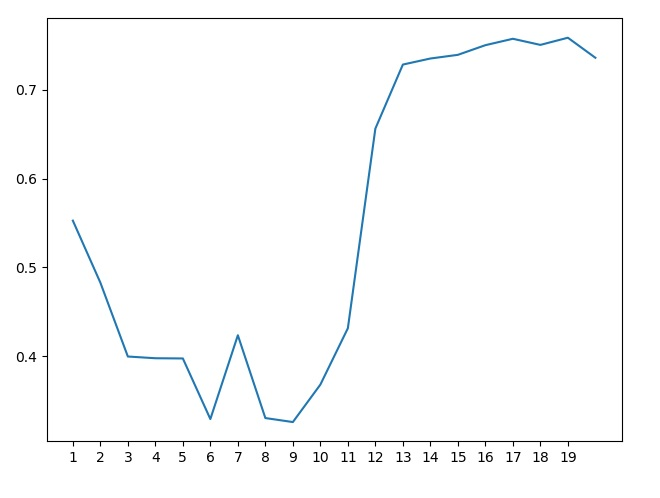
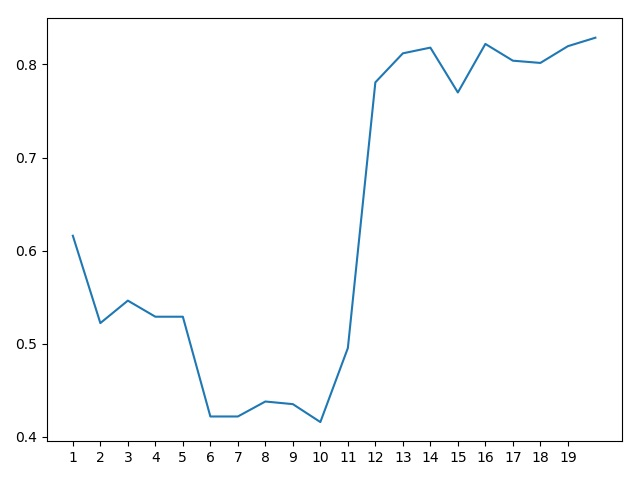
f score works! falta revisar

diff --git a/scripts/Python/src/KNN.py b/scripts/Python/src/KNN.py
@@ -12,6 +12,8 @@ import matplotlib.pyplot as plt  # per imprimir plots
 import numpy as np
 import utils
 import sklearn.model_selection as cva  # Pel Cross-validation
+from sklearn.metrics import f1_score
+from sklearn.metrics import fbeta_score, make_scorer
 
 
 def read_csv(url):
@@ -35,6 +37,7 @@ def main():
     # Load digits dataset from scikit
     url_learn = "../../../data/learning/BankCleanLearn.csv"
     url_test = "../../../data/test/BankCleanTest.csv"
+    f_scorer = make_scorer(f1_score, pos_label=0)
 
     (dades, X, y) = read_csv(url_learn)
 
@@ -60,7 +63,7 @@ def main():
     print("StratifiedKfold K-cross-Validation")
     cv = StratifiedKFold(n_splits=10, random_state=1)
 
-    cv_scores = cross_val_score(nb.KNeighborsClassifier(), X=X, y=y, cv=cv, scoring='accuracy', n_jobs=-1)
+    cv_scores = cross_val_score(nb.KNeighborsClassifier(), X=X, y=y, cv=cv, scoring=f_scorer, n_jobs=-1)
     print(np.mean(cv_scores))
 
     # MILLOREM EL KNN
@@ -69,7 +72,7 @@ def main():
     # One way is to standarize all data mean 0, std 1
     scaler = preprocessing.StandardScaler().fit(X)
     X2 = scaler.transform(X)
-    cv_scores = cross_val_score(nb.KNeighborsClassifier(), X=X2, y=y, cv=cv, scoring='accuracy', n_jobs=-1)
+    cv_scores = cross_val_score(nb.KNeighborsClassifier(), X=X2, y=y, cv=cv, scoring=f_scorer, n_jobs=-1)
     print("new accuracy: %s\n" % (np.mean(cv_scores)))
     # Irrelevant columns
     print("Effect of irrelevant columns:\n")
@@ -96,7 +99,7 @@ def main():
         if i == 'y':
             continue
         X_new = SelectKBest(mutual_info_classif, k=contador + 1).fit_transform(X2, y)
-        cv_scores = cross_val_score(nb.KNeighborsClassifier(), X=X_new, y=y, cv=cv, scoring='accuracy', n_jobs=-1)
+        cv_scores = cross_val_score(nb.KNeighborsClassifier(), X=X_new, y=y, cv=cv, scoring=f_scorer, n_jobs=-1)
         if len(original) > 0 and np.mean(cv_scores) >= max(original):
             k_max = contador + 1
             X_new_best = X_new
@@ -111,35 +114,35 @@ def main():
     X_new = X_new_best
     # # Buscarem els millors parametres PLOT:
     # # OJO! d'aqui fins al final TRIGA MOOOOLT i utilitza tots els nuclis
-    # lr = []
-    # for ki in range(1, 30, 2):
-    #     cv_scores = cross_val_score(nb.KNeighborsClassifier(n_neighbors=ki), X=X_new, y=y, cv=10)
-    #     lr.append(np.mean(cv_scores))
-    # plt.plot(range(1, 30, 2), lr, 'b', label='No weighting')
+    lr = []
+    for ki in range(1, 30, 2):
+        cv_scores = cross_val_score(nb.KNeighborsClassifier(n_neighbors=ki), X=X_new, y=y, cv=10)
+        lr.append(np.mean(cv_scores))
+    plt.plot(range(1, 30, 2), lr, 'b', label='No weighting')
+
+    lr = []
+    for ki in range(1, 30, 2):
+        cv_scores = cross_val_score(nb.KNeighborsClassifier(n_neighbors=ki, weights='distance'), X=X_new, y=y, cv=10)
+        lr.append(np.mean(cv_scores))
+    plt.plot(range(1, 30, 2), lr, 'r', label='Weighting')
+    plt.xlabel('k')
+    plt.ylabel('Accuracy')
+    plt.legend(loc='upper right')
+    plt.grid()
+    plt.tight_layout()
+    plt.show()
     #
-    # lr = []
-    # for ki in range(1, 30, 2):
-    #     cv_scores = cross_val_score(nb.KNeighborsClassifier(n_neighbors=ki, weights='distance'), X=X_new, y=y, cv=10)
-    #     lr.append(np.mean(cv_scores))
-    # plt.plot(range(1, 30, 2), lr, 'r', label='Weighting')
-    # plt.xlabel('k')
-    # plt.ylabel('Accuracy')
-    # plt.legend(loc='upper right')
-    # plt.grid()
-    # plt.tight_layout()
-    # plt.show()
-    #
-    # # Busquem els millors parametres amb un GridSearch
-    # print("Searching best parameters for KNN\n")
-    # params = {'n_neighbors': list(range(1, 30, 2)), 'weights': ('distance', 'uniform')}
-    # knc = nb.KNeighborsClassifier()
-    # clf = GridSearchCV(knc, param_grid=params, cv=cv, n_jobs=-1)  # If cv is integer, by default is Stratifyed
-    # clf.fit(X_new, y)
-    # print("Best Params=", clf.best_params_, "Accuracy=", clf.best_score_)
+    # Busquem els millors parametres amb un GridSearch
+    print("Searching best parameters for KNN\n")
+    params = {'n_neighbors': list(range(1, 30, 2)), 'weights': ('distance', 'uniform')}
+    knc = nb.KNeighborsClassifier()
+    clf = GridSearchCV(knc, param_grid=params, cv=cv, n_jobs=-1, scoring=f_scorer)  # If cv is integer, by default is Stratifyed
+    clf.fit(X_new, y)
+    print("Best Params=", clf.best_params_, "Accuracy=", clf.best_score_)
 
     # Ja tenim els millors parametres, ara hem de testejar-ho
-    knc_test = nb.KNeighborsClassifier(n_neighbors=29, weights='uniform')
-    knc_test.fit(X_new, y)
+    knc_test = nb.KNeighborsClassifier(n_neighbors=clf.best_params_['n_neighbors'], weights=clf.best_params_['weights'])
+    knc_test.fit(X, y)
     (dades_test, X_testing, y_testing) = read_csv(url_test)
     print("Results without: ", knc_test.score(X_testing, y_testing))
     # More information with confussion matrix
